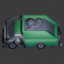
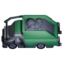
Adds a vehicle object

diff --git a/WasteRecyclingGame.py b/WasteRecyclingGame.py
@@ -1,1 +1,66 @@
-print ("test")
+import pygame
+import random
+import GameObjects
+import GameObjects.VehicleModel
+#import tkinter as tk
+#from tkinter import Menu
+
+pygame.init()
+
+screen = pygame.display.set_mode( (800, 600) )
+pygame.display.set_caption("Waste & Recycling")
+game_running = True
+
+vehicle = GameObjects.VehicleModel.vehicleModel()
+vehiclePosition = [100,100]
+moveVehicle = 0 #to avoid getting stop after a first key beeing up, this is an int and the vehicle will stop when this has the value 0
+vehicleDirection = GameObjects.VehicleModel.Directions
+
+screen.blit(vehicle.getVehicleSurface(GameObjects.VehicleModel.Directions.RIGHT), vehiclePosition )
+
+while game_running:
+    
+    pygame.display.update()
+    
+    for event in pygame.event.get():
+        if event.type == pygame.QUIT:
+            game_running = False
+            
+        if event.type == pygame.KEYDOWN:
+            
+            if event.key == pygame.K_LEFT:
+                moveVehicle += 1
+                vehicleDirection = GameObjects.VehicleModel.Directions.LEFT
+            if event.key == pygame.K_UP:
+                moveVehicle += 1
+                vehicleDirection = GameObjects.VehicleModel.Directions.UP
+            if event.key == pygame.K_RIGHT:
+                moveVehicle += 1
+                vehicleDirection = GameObjects.VehicleModel.Directions.RIGHT
+            if event.key == pygame.K_DOWN:
+                moveVehicle += 1
+                vehicleDirection = GameObjects.VehicleModel.Directions.DOWN
+                
+        if event.type == pygame.KEYUP:
+            if event.key == pygame.K_LEFT or event.key == pygame.K_UP or event.key == pygame.K_RIGHT or event.key == pygame.K_DOWN:
+                moveVehicle -= 1
+                screen.blit(vehicle.getVehicleSurface(vehicleDirection), vehiclePosition)
+            
+    if moveVehicle > 0:
+        screen.fill("black")
+        if vehicleDirection == GameObjects.VehicleModel.Directions.LEFT:
+            vehiclePosition[0] -= 0.1
+            screen.blit(vehicle.getVehicleSurface(GameObjects.VehicleModel.Directions.LEFT), vehiclePosition )
+        if vehicleDirection == GameObjects.VehicleModel.Directions.UP:
+            vehiclePosition[1] -= 0.1
+            screen.blit(vehicle.getVehicleSurface(GameObjects.VehicleModel.Directions.UP), vehiclePosition)
+        if vehicleDirection == GameObjects.VehicleModel.Directions.RIGHT:
+            vehiclePosition[0] += 0.1
+            screen.blit(vehicle.getVehicleSurface(GameObjects.VehicleModel.Directions.RIGHT), vehiclePosition )
+        if vehicleDirection == GameObjects.VehicleModel.Directions.DOWN:
+            vehiclePosition[1] += 0.1
+            screen.blit(vehicle.getVehicleSurface(GameObjects.VehicleModel.Directions.DOWN), vehiclePosition )
+            
+            
+pygame.quit()
+

diff --git a/GameObjects/VehicleModel.py b/GameObjects/VehicleModel.py
@@ -1,0 +1,21 @@
+# This is a representation of the waste vehicle
+
+import pygame
+
+from enum import Enum
+
+class Directions(Enum):
+    LEFT = 0
+    UP = 1
+    RIGHT = 2
+    DOWN = 3
+
+class vehicleModel:
+    vehicleImages = []
+
+    def __init__(self):    
+        self.vehicleImages = ["GameAssets/vehicle/vehicle_left.png", "GameAssets/vehicle/vehicle_up.png", "GameAssets/vehicle/vehicle_right.png", "GameAssets/vehicle/vehicle_down.png"]
+        
+    def getVehicleSurface(self, direction: Directions) -> pygame.Surface:
+        return pygame.image.load(self.vehicleImages[direction.value]).convert_alpha()
+    
